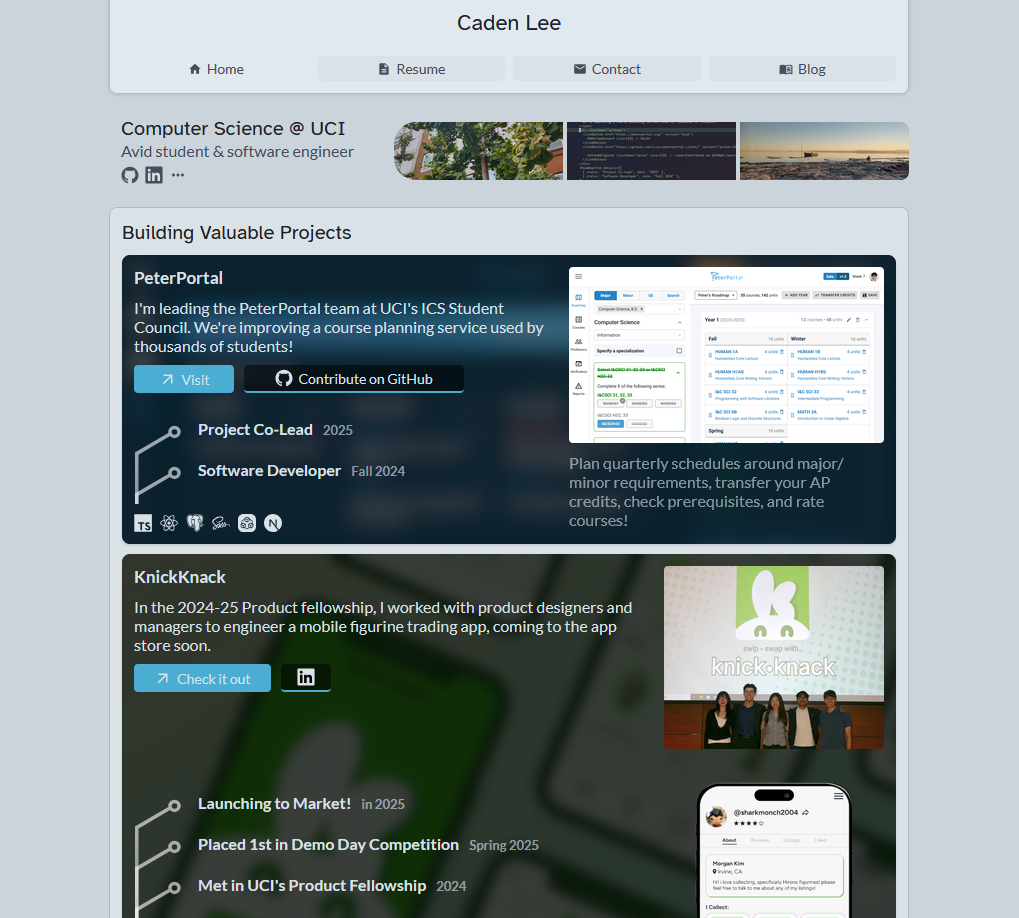
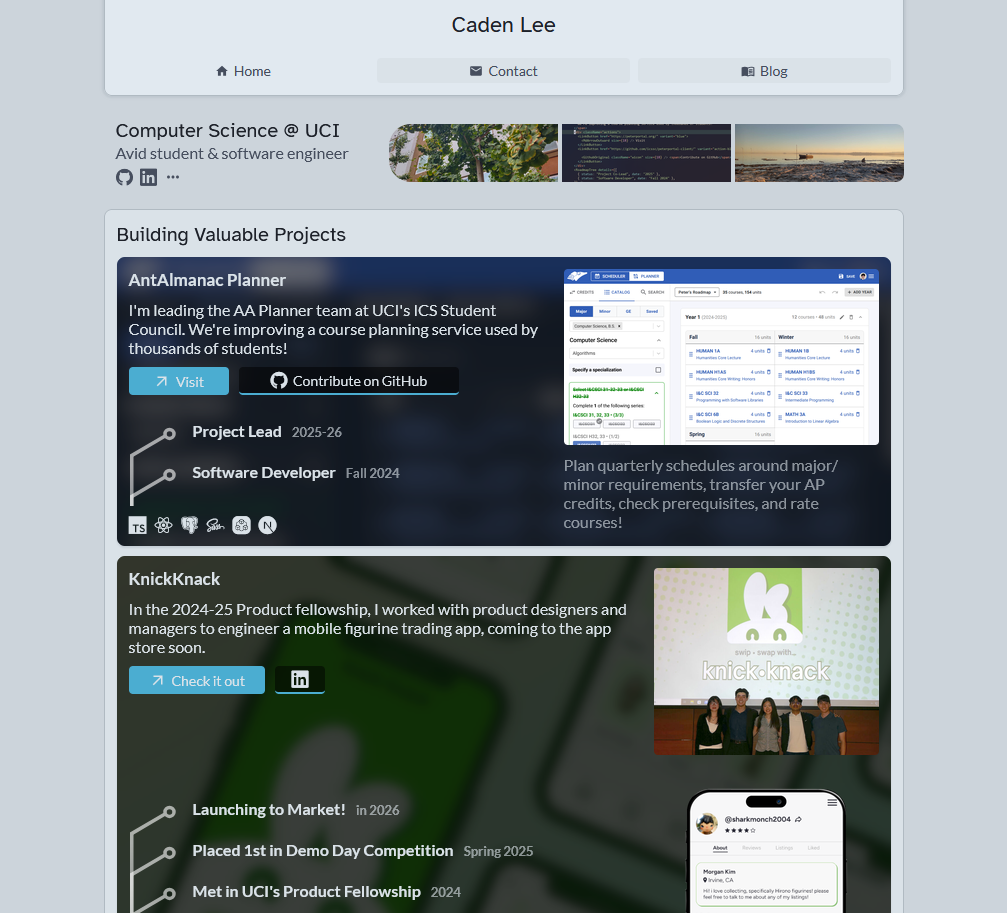
docs: update readme

Changed region(s): [[0.0924, 0.2453, 0.8928, 1.0], [0.0924, 0.0, 0.9235, 0.2147], [0.0924, 0.0, 0.1231, 0.092]]

diff --git a/frontend/src/app.tsx b/frontend/src/app.tsx
@@ -4,9 +4,6 @@ import { FileRoutes } from "@solidjs/start/router";
 import { Suspense } from "solid-js";
 import "./app.css";
 
-// TODO: update readme
-// TODO: deployment ensure blog data and rss generation is correct
-
 export default function App() {
   return (
     <Router

diff --git a/README.md b/README.md
@@ -5,19 +5,22 @@ This is the latest version of my personal website, hosted at <https://cadenlee.d
 <img src="./homepage.png" alt="A screenshot of the homepage" width="550">
 
 ## Development
+This project uses `pnpm`, which you can install via `npm i -g pnpm`.
+
 Running the frontend is simple:
 ```sh
 cd frontend
-npm install
-npm run dev
+pnpm install
+pnpm dev
 ```
 
 ## Stack & tools
-- React + Vite
-- Material icons (from `react-icons`) and Devicons
+- SolidJS, using SolidStart + Vite
+- Material icons and Devicons
 
-## Future goals
+## Features & future goals
 - ~~Restaurant rating map~~ ([done](https://cadenlee.dev/cuisine)!)
+- ~~RSS feed~~ ([done](https://cadenlee.dev/rss.xml)!)
 - Personal availability calendar/meeting scheduler based on [rical](https://github.com/Cadecraft/rical)
 - More blog posts
 - ~~Self-hosted markdown notes~~ ([done](https://notes.cadenlee.dev/misc/example)!)
